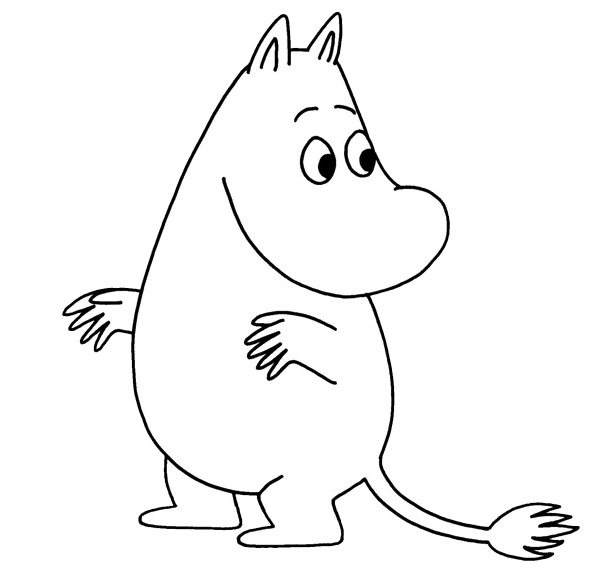
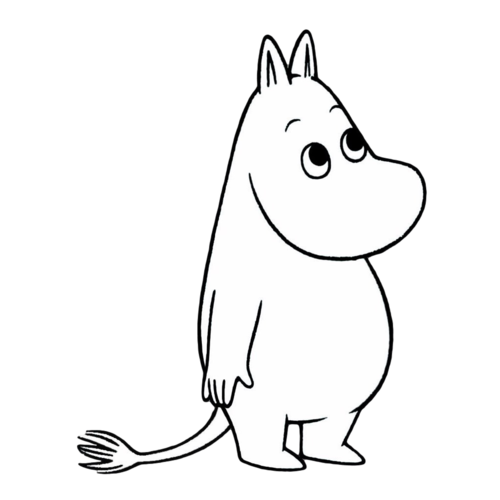
update user picture

diff --git a/src/main/java/duke/ui/MainWindow.java b/src/main/java/duke/ui/MainWindow.java
@@ -26,7 +26,7 @@ public class MainWindow extends AnchorPane {
     private Duke duke;
 
     private Image userImage = new Image(this.getClass().getResourceAsStream("/images/Snufkin.png"));
-    private Image dukeImage = new Image(this.getClass().getResourceAsStream("/images/DaDuke.png"));
+    private Image dukeImage = new Image(this.getClass().getResourceAsStream("/images/Moomin.png"));
 
     public void showWelcomeMessage() {
         dialogContainer.getChildren().addAll(
